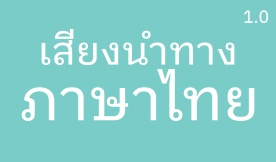
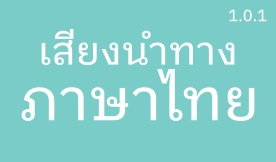
Update to version 1.0.1

Changed region(s): [[0.8116, 0.0617, 0.9855, 0.1543]]

diff --git a/CHANGELOG.md b/CHANGELOG.md
@@ -1,2 +1,5 @@
+# 1.0.1
+- แก้ไขเสียงเตือนจำกัดความเร็ว
+
 # 1.0.0
 - เวอร์ชันแรก
